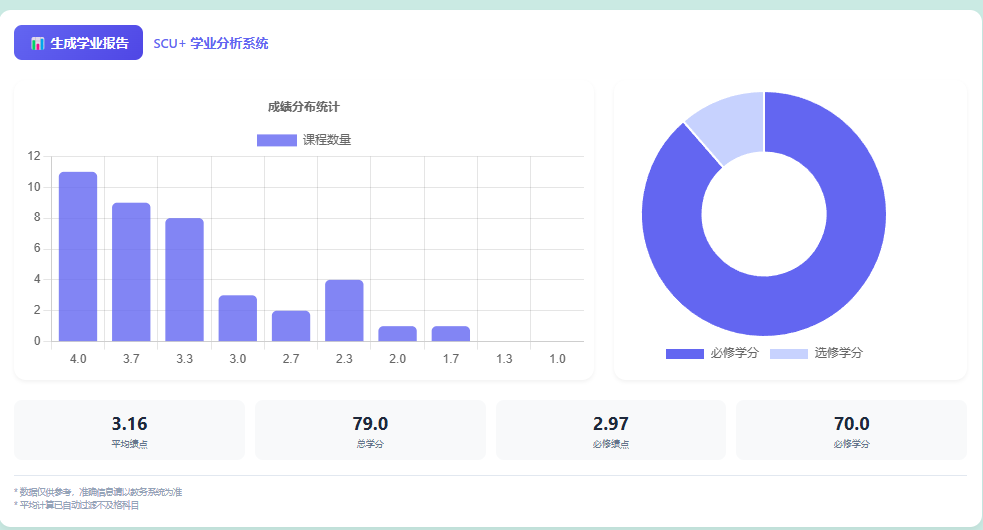
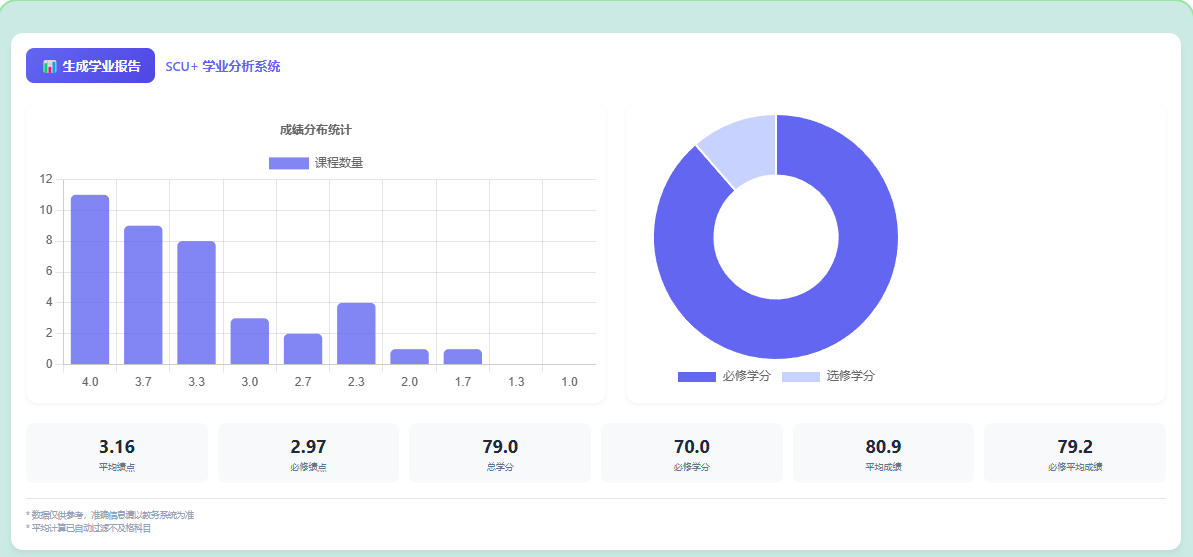
成绩统计页面添加平均成绩和必修平均成绩

diff --git a/src/contents/score.ts b/src/contents/score.ts
@@ -204,12 +204,31 @@ window.addEventListener("load", () => {
     const totalCredits = passed.reduce((sum, item) => sum + item.credit, 0);
     const requiredCredits = required.reduce((sum, item) => sum + item.credit, 0);
 
+
+    // 平均成绩
+    const scoreData = passed.map((item) => ({
+      credit: item.credit,
+      value: item.score,
+    }));
+    const averageScore = calculateWeightedAverage(scoreData);
+
+    // 必修平均成绩
+    const requiredScoreData = data
+      .filter((item) => item.attribute === "必修")
+      .map((item) => ({
+        credit: item.credit,
+        value: item.score,
+      }));
+    const requiredAverageScore = calculateWeightedAverage(requiredScoreData);
+
     // 更新界面
     updateStatsDisplay({
       averageGPA,
       totalCredits,
       requiredGPA,
-      requiredCredits
+      requiredCredits,
+      averageScore,
+      requiredAverageScore
     });
 
     renderCharts({
@@ -221,7 +240,7 @@ window.addEventListener("load", () => {
     document.getElementById('charts-section').style.display = 'block';
   };
 
-  const updateStatsDisplay = ({ averageGPA, totalCredits, requiredGPA, requiredCredits }) => {
+  const updateStatsDisplay = ({ averageGPA, totalCredits, requiredGPA, requiredCredits,averageScore,requiredAverageScore }) => {
     const grid = document.getElementById('stats-grid');
     grid.innerHTML = `
       <div class="stat-card">
@@ -229,16 +248,24 @@ window.addEventListener("load", () => {
         <div class="stat-label">平均绩点</div>
       </div>
       <div class="stat-card">
-        <div class="stat-value">${totalCredits.toFixed(1)}</div>
-        <div class="stat-label">总学分</div>
-      </div>
-      <div class="stat-card">
         <div class="stat-value">${requiredGPA.toFixed(2)}</div>
         <div class="stat-label">必修绩点</div>
       </div>
       <div class="stat-card">
+        <div class="stat-value">${totalCredits.toFixed(1)}</div>
+        <div class="stat-label">总学分</div>
+      </div>
+      <div class="stat-card">
         <div class="stat-value">${requiredCredits.toFixed(1)}</div>
         <div class="stat-label">必修学分</div>
+      </div>
+      <div class="stat-card">
+        <div class="stat-value">${averageScore.toFixed(1)}</div>
+        <div class="stat-label">平均成绩</div>
+      </div>
+      <div class="stat-card">
+        <div class="stat-value">${requiredAverageScore.toFixed(1)}</div>
+        <div class="stat-label">必修平均成绩</div>
       </div>
     `;
   };
